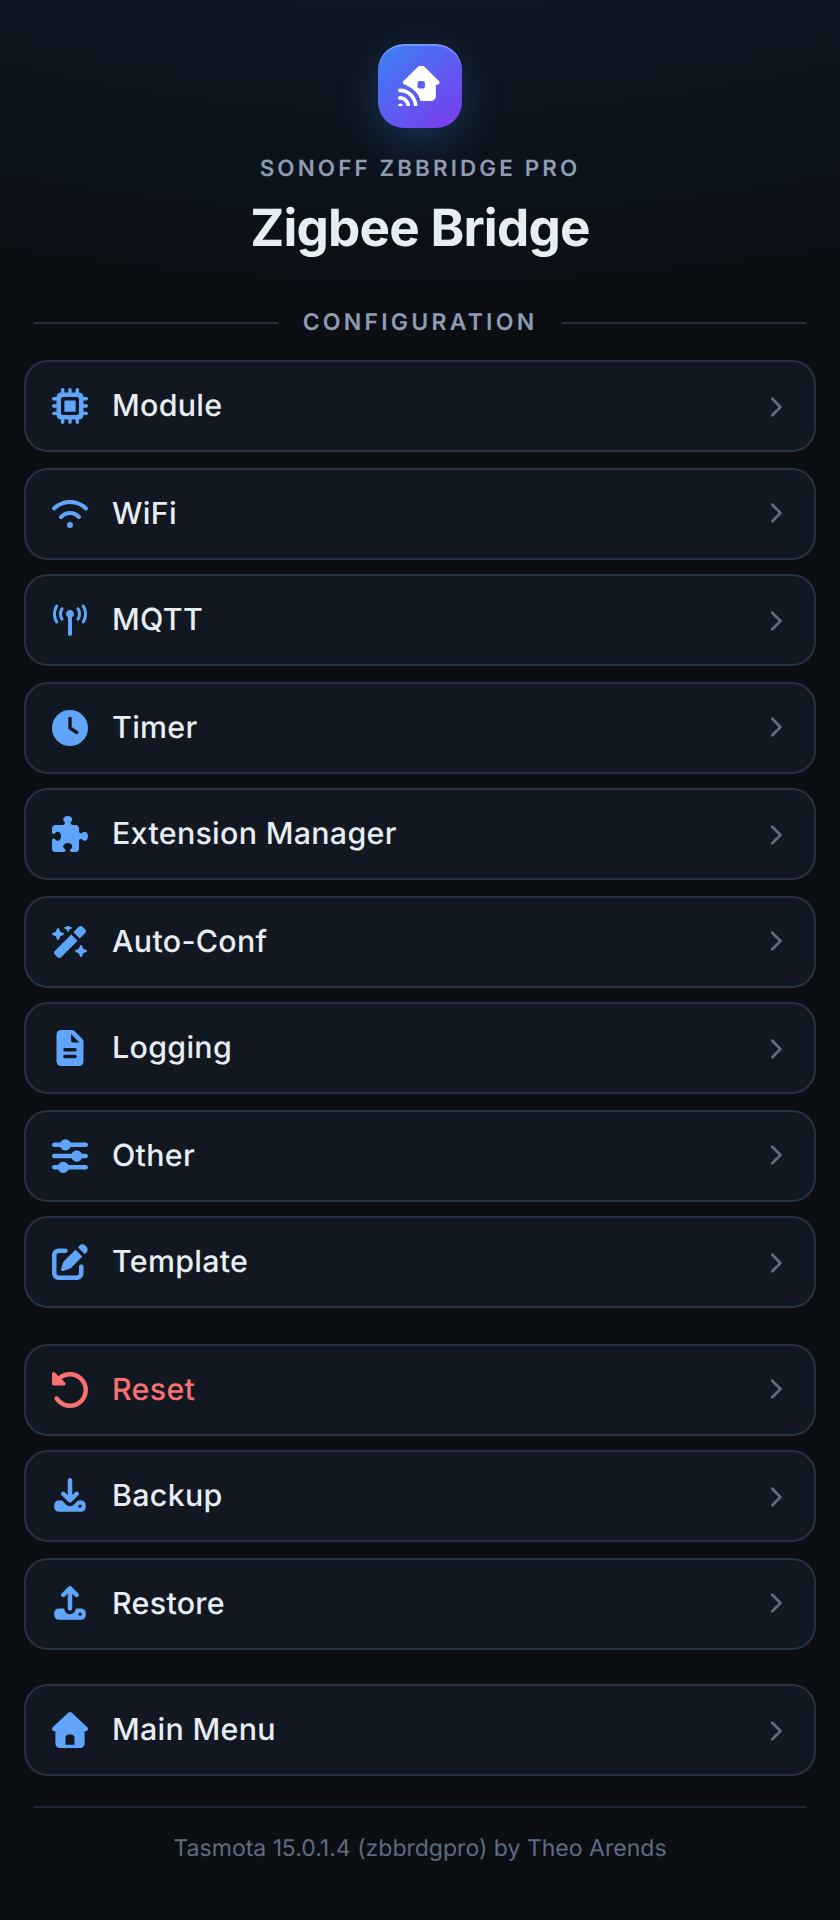
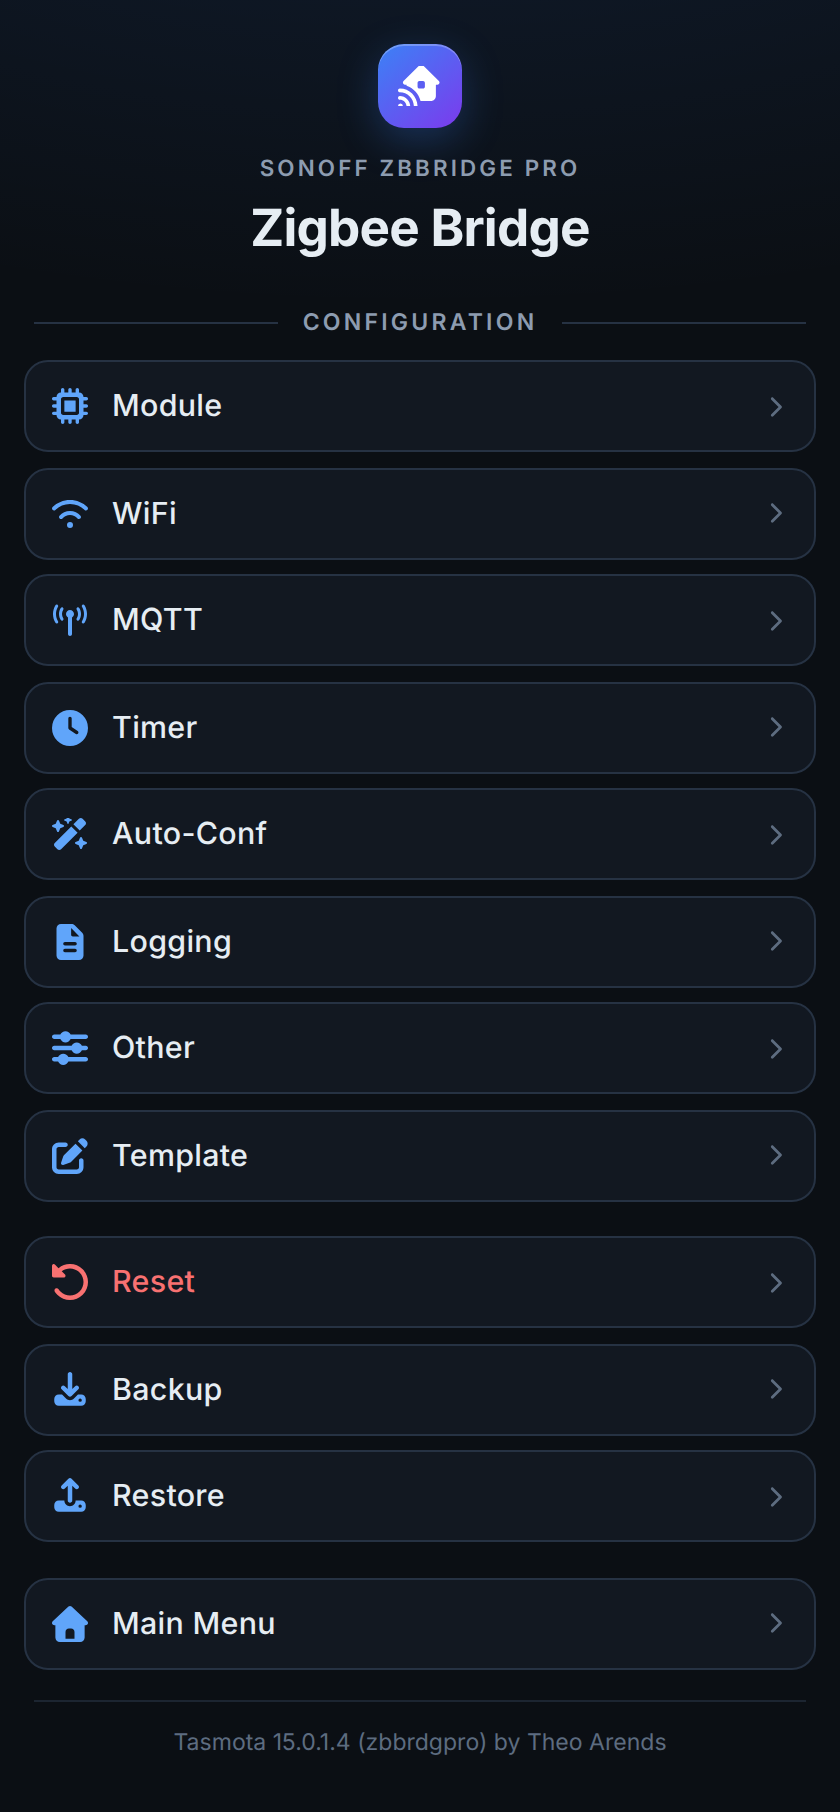
README: install from the Extension Manager with the repository url
The Extension Manager is on the Tools page, the configuration screenshot
no longer shows it there.

diff --git a/README.md b/README.md
@@ -33,9 +33,13 @@ page, Tasmota's own and the ones added by Berry extensions like
 
 ## Install
 
-Download [zigbee_style.tapp](https://raw.githubusercontent.com/rmawatson/tasmota-zigbee-style/main/extensions/tapp/zigbee_style.tapp)
+To install this extension in Tasmota, paste the url `https://raw.githubusercontent.com/rmawatson/tasmota-zigbee-style/refs/heads/main/extensions/`
+into the field at the bottom of the Online Store in `Tools->Extension Manager`, press Enter, and install Zigbee Style
+from the list.
+
+Or download [zigbee_style.tapp](https://raw.githubusercontent.com/rmawatson/tasmota-zigbee-style/main/extensions/tapp/zigbee_style.tapp)
 and upload it to the `/.extensions` folder of the device with Tools > Manage File system. Start it from
-Configuration > Extension Manager, or restart the device.
+Tools > Extension Manager, or restart the device.
 
 Or in the Berry Scripting console:
 
